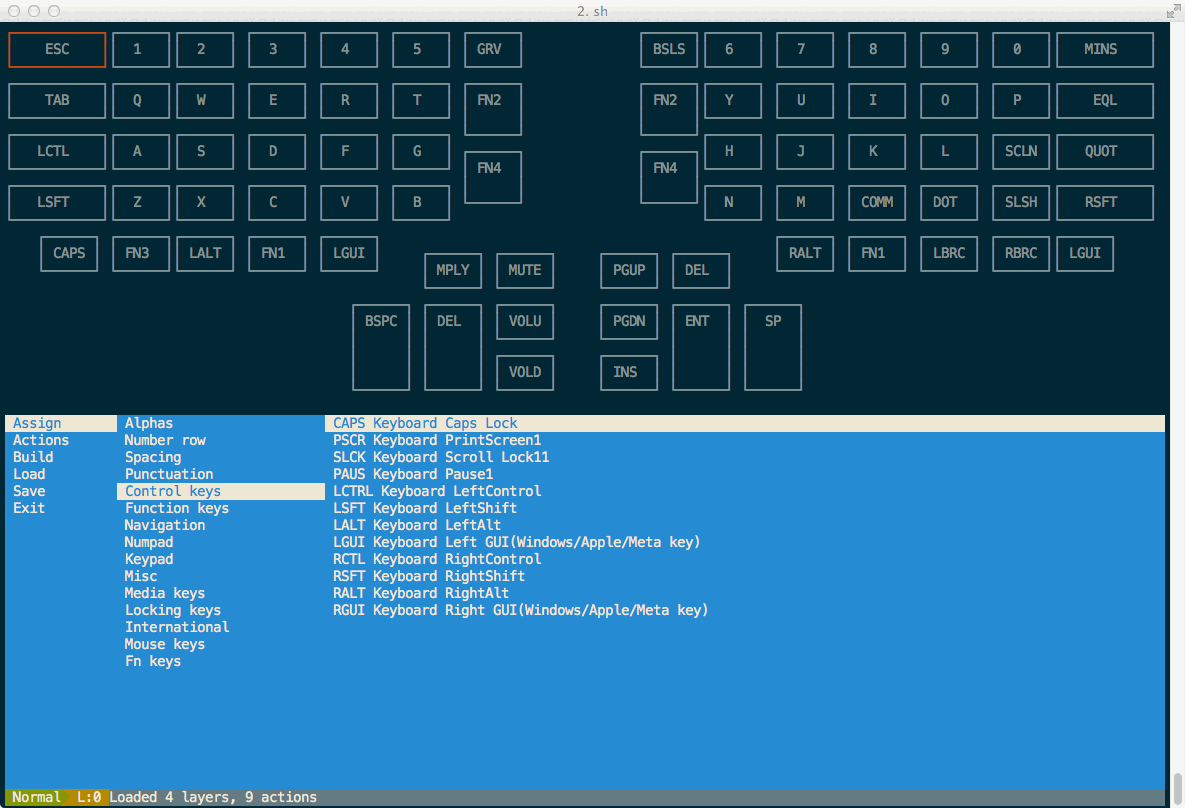
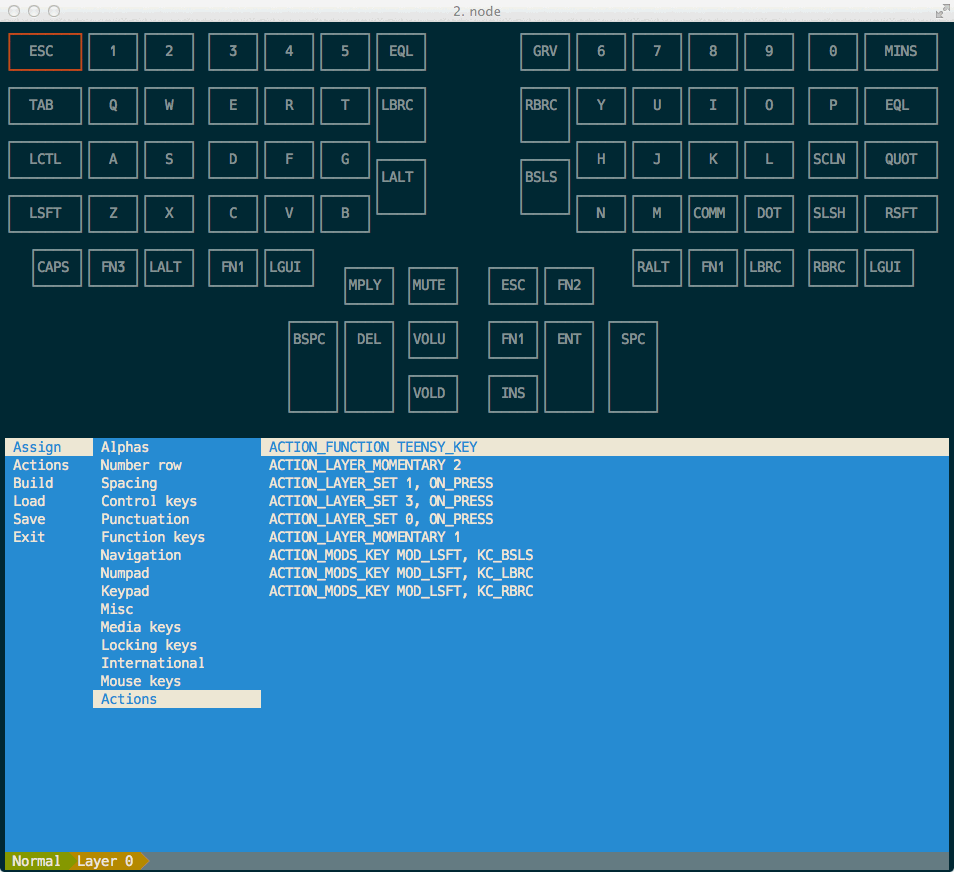
Version 0.0.6 - Assign actions

Changed region(s): [[0.0, 0.0, 1.0, 1.0], [0.0, 0.9592, 0.2736, 1.0]]

diff --git a/lib/keycodes.js b/lib/keycodes.js
@@ -42,7 +42,7 @@ var keycodes = [
 { group: 'Number row', code: '9', id: '26', description: 'Keyboard 9 and (' },
 { group: 'Number row', code: '0', id: '27', description: 'Keyboard 0 and )' },
 { group: 'Spacing', code: 'ENT', id: '28', description: 'Keyboard Return (ENTER)' },
-{ group: 'Spacing', code: 'ESC', id: '29', description: 'Keyboard ESCAPE' },
+{ group: 'Control keys', code: 'ESC', id: '29', description: 'Keyboard ESCAPE' },
 { group: 'Spacing', code: 'BSPC', id: '2A', description: 'Keyboard DELETE (Backspace)' },
 { group: 'Spacing', code: 'TAB', id: '2B', description: 'Keyboard Tab' },
 { group: 'Spacing', code: 'SPC', id: '2C', description: 'Keyboard Spacebar' },
@@ -210,7 +210,8 @@ var keycodes = [
 { group: 'Mouse keys', code: 'WH_R', description: 'Mouse Wheel Right' },
 { group: 'Mouse keys', code: 'ACL0', description: 'Mouse Acceleration 0' },
 { group: 'Mouse keys', code: 'ACL1', description: 'Mouse Acceleration 1' },
-{ group: 'Mouse keys', code: 'ACL2', description: 'Mouse Acceleration 2' },
+{ group: 'Mouse keys', code: 'ACL2', description: 'Mouse Acceleration 2' }
+/*
 { group: 'Fn keys', code: 'FN0' },
 { group: 'Fn keys', code: 'FN1' },
 { group: 'Fn keys', code: 'FN2' },
@@ -243,6 +244,7 @@ var keycodes = [
 { group: 'Fn keys', code: 'FN29' },
 { group: 'Fn keys', code: 'FN30' },
 { group: 'Fn keys', code: 'FN31' }
+*/
 ];
 exports.keycodes = keycodes; 
 exports.groups = function() {

diff --git a/lib/ui/assignmenu.js b/lib/ui/assignmenu.js
@@ -30,6 +30,20 @@ exports.show = function(parent, clb) {
       }
     }
   });
+  commands[" Actions"] = {
+    callback: function() {
+      keyBox.setItems(state.actions.map(function(action) { 
+        return {
+          text: " "+action.fn+" "+action.args.join(", "),
+          callback: function() {
+            callback.assign(action.mapping);
+          }
+        }
+      }));
+      state.getScreen().render();
+      state.pushFocus(keyBox);
+    }
+  };
   leftBox.setItems(commands);
   mainBox.show();
   state.getScreen().render();

diff --git a/firmwares/tmk.js b/firmwares/tmk.js
@@ -57,7 +57,7 @@ exports.load = function(path, clb) {
     for(i=0; i < actiondefs.length; i++) {
       action = re.exec(actiondefs[i]);
       //console.log(actiondefs[i]);
-      actions.push({ fn: action[1], args: action[2].split(',').map(function(d) { return d.trim() }) });
+      actions.push({ mapping: "FN"+i, fn: action[1], args: action[2].split(',').map(function(d) { return d.trim() }) });
     }
     
     //Parse function_id

diff --git a/lib/state.js b/lib/state.js
@@ -114,8 +114,8 @@ exports.getStatusLine = function(width) {
 }
 
 exports.keyListener = function(ch, key) {
-  exports.helpMessage = key.full;
-
+  
+  exports.debug("Key "+key.full);
   //Global keys
   switch(key.full) {
     case 'S-s':
